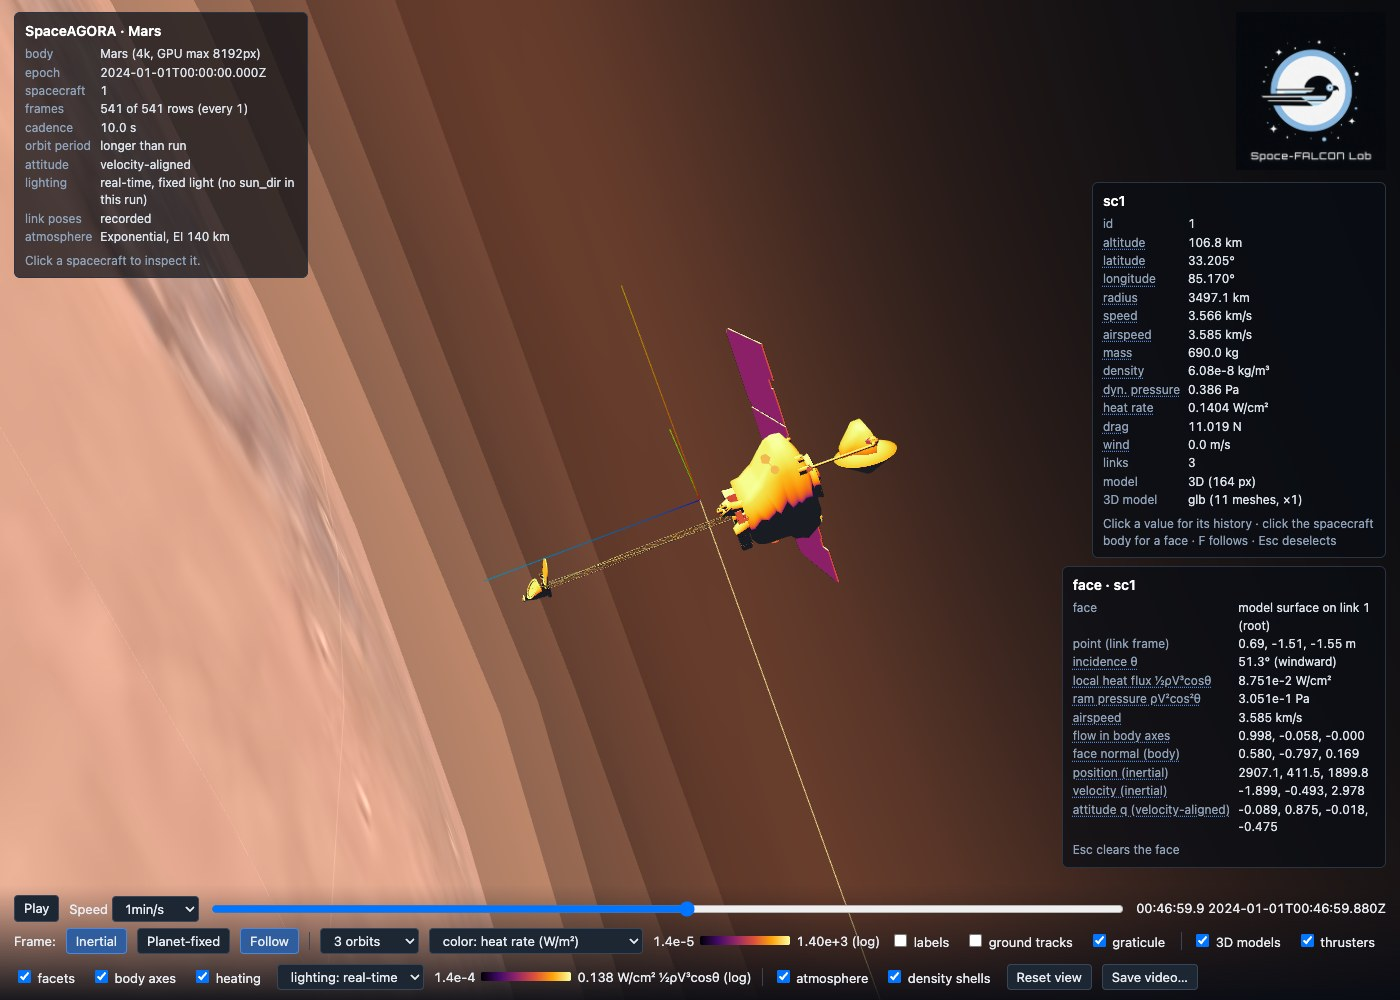
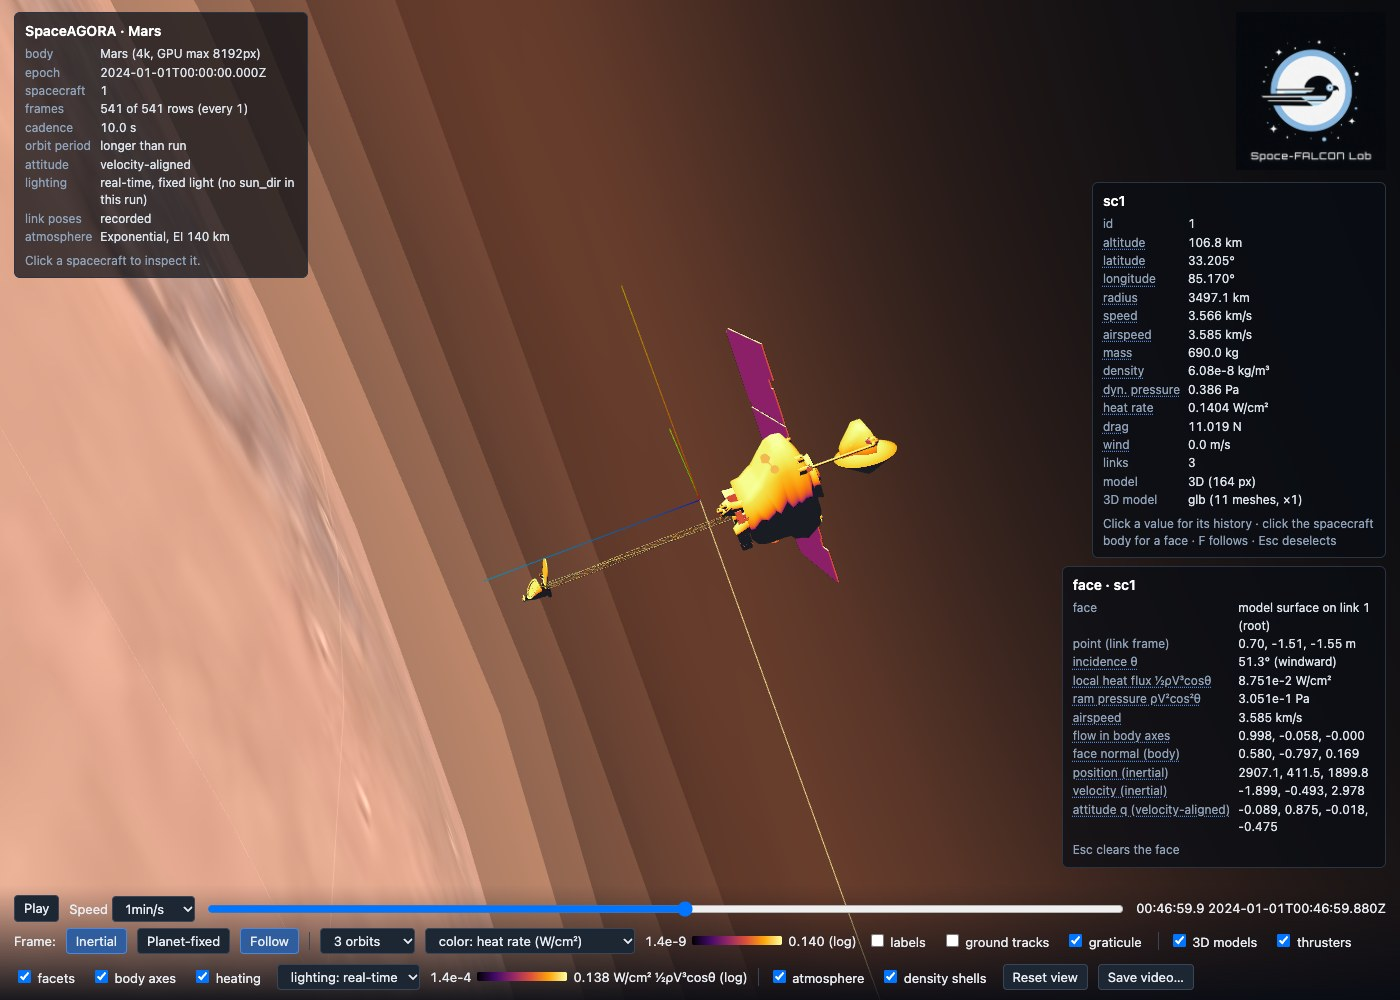
Pin the companion renderer at its heat-rate unit fix
Move packages/VisualizerSource.toml to SpaceAGORAVisualizer.jl 31a621816,
the merge of its PR 4: the standalone CSV loader converts heat rates from
W/cm² to the payload's W/m², and every heat-rate label and legend reads
W/cm². Point the companion README link at the same commit, and retake the
two viewer screenshots that show the heat-rate trail colouring.

Changed region(s): [[0.2764, 0.93, 0.9829, 0.992], [0.1229, 0.899, 0.1536, 0.93]]

diff --git a/docs/src/user/visualization.md b/docs/src/user/visualization.md
@@ -417,7 +417,7 @@ a host that refuses embedded `data:` scripts, `SpaceAGORAVisualizer.jl/viewer/bu
 rewrites an exported page to load the pinned three.js and mp4-muxer from
 `cdn.jsdelivr.net` with the renderer modules inlined; the built page lists
 its network hosts and third-party notices in its footer, and adds fonts
-from Google Fonts only with `--fonts`. See [the companion renderer guide](https://github.com/Space-FALCON-Lab/SpaceAGORAVisualizer.jl/blob/6c0080743c124e321d538f3780fa30868612da21/viewer/README.md) for renderer development, module layout and
+from Google Fonts only with `--fonts`. See [the companion renderer guide](https://github.com/Space-FALCON-Lab/SpaceAGORAVisualizer.jl/blob/31a62181653e57cd7ae769ce26d954afa94e704d/viewer/README.md) for renderer development, module layout and
 licensing. Landing dynamics and plume-surface physics are separate from the
 viewer: the page only draws what the run saved.
 
